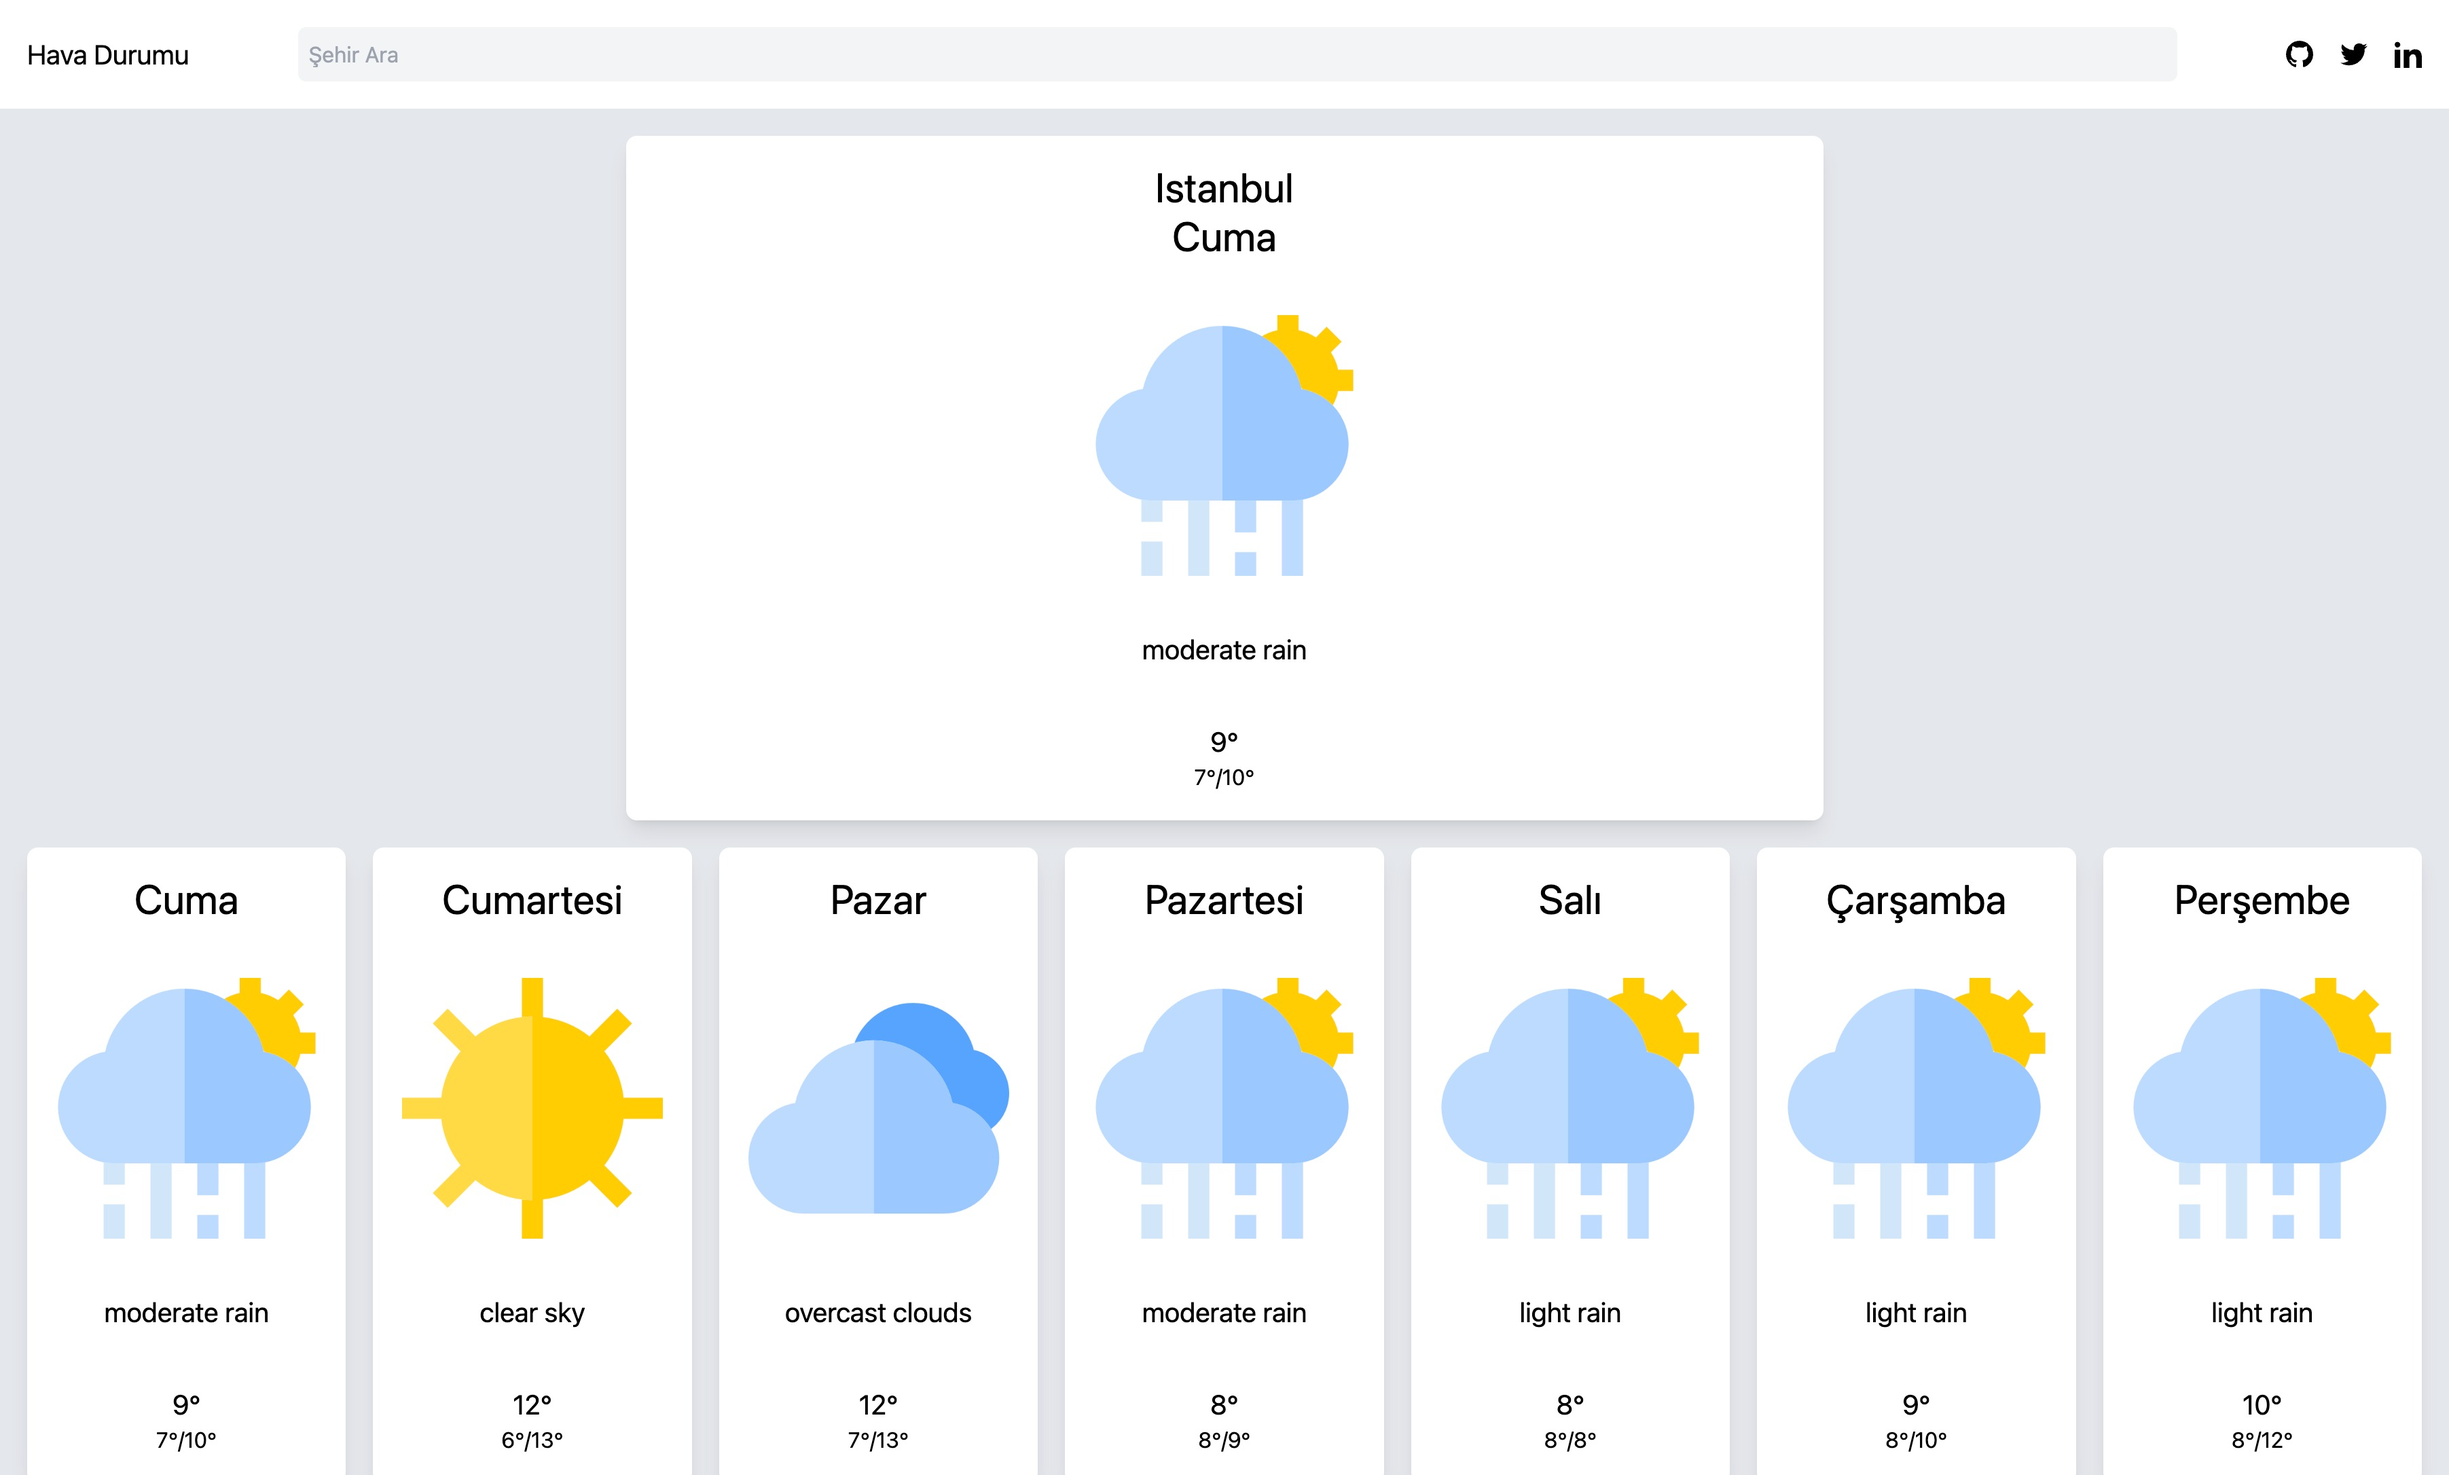
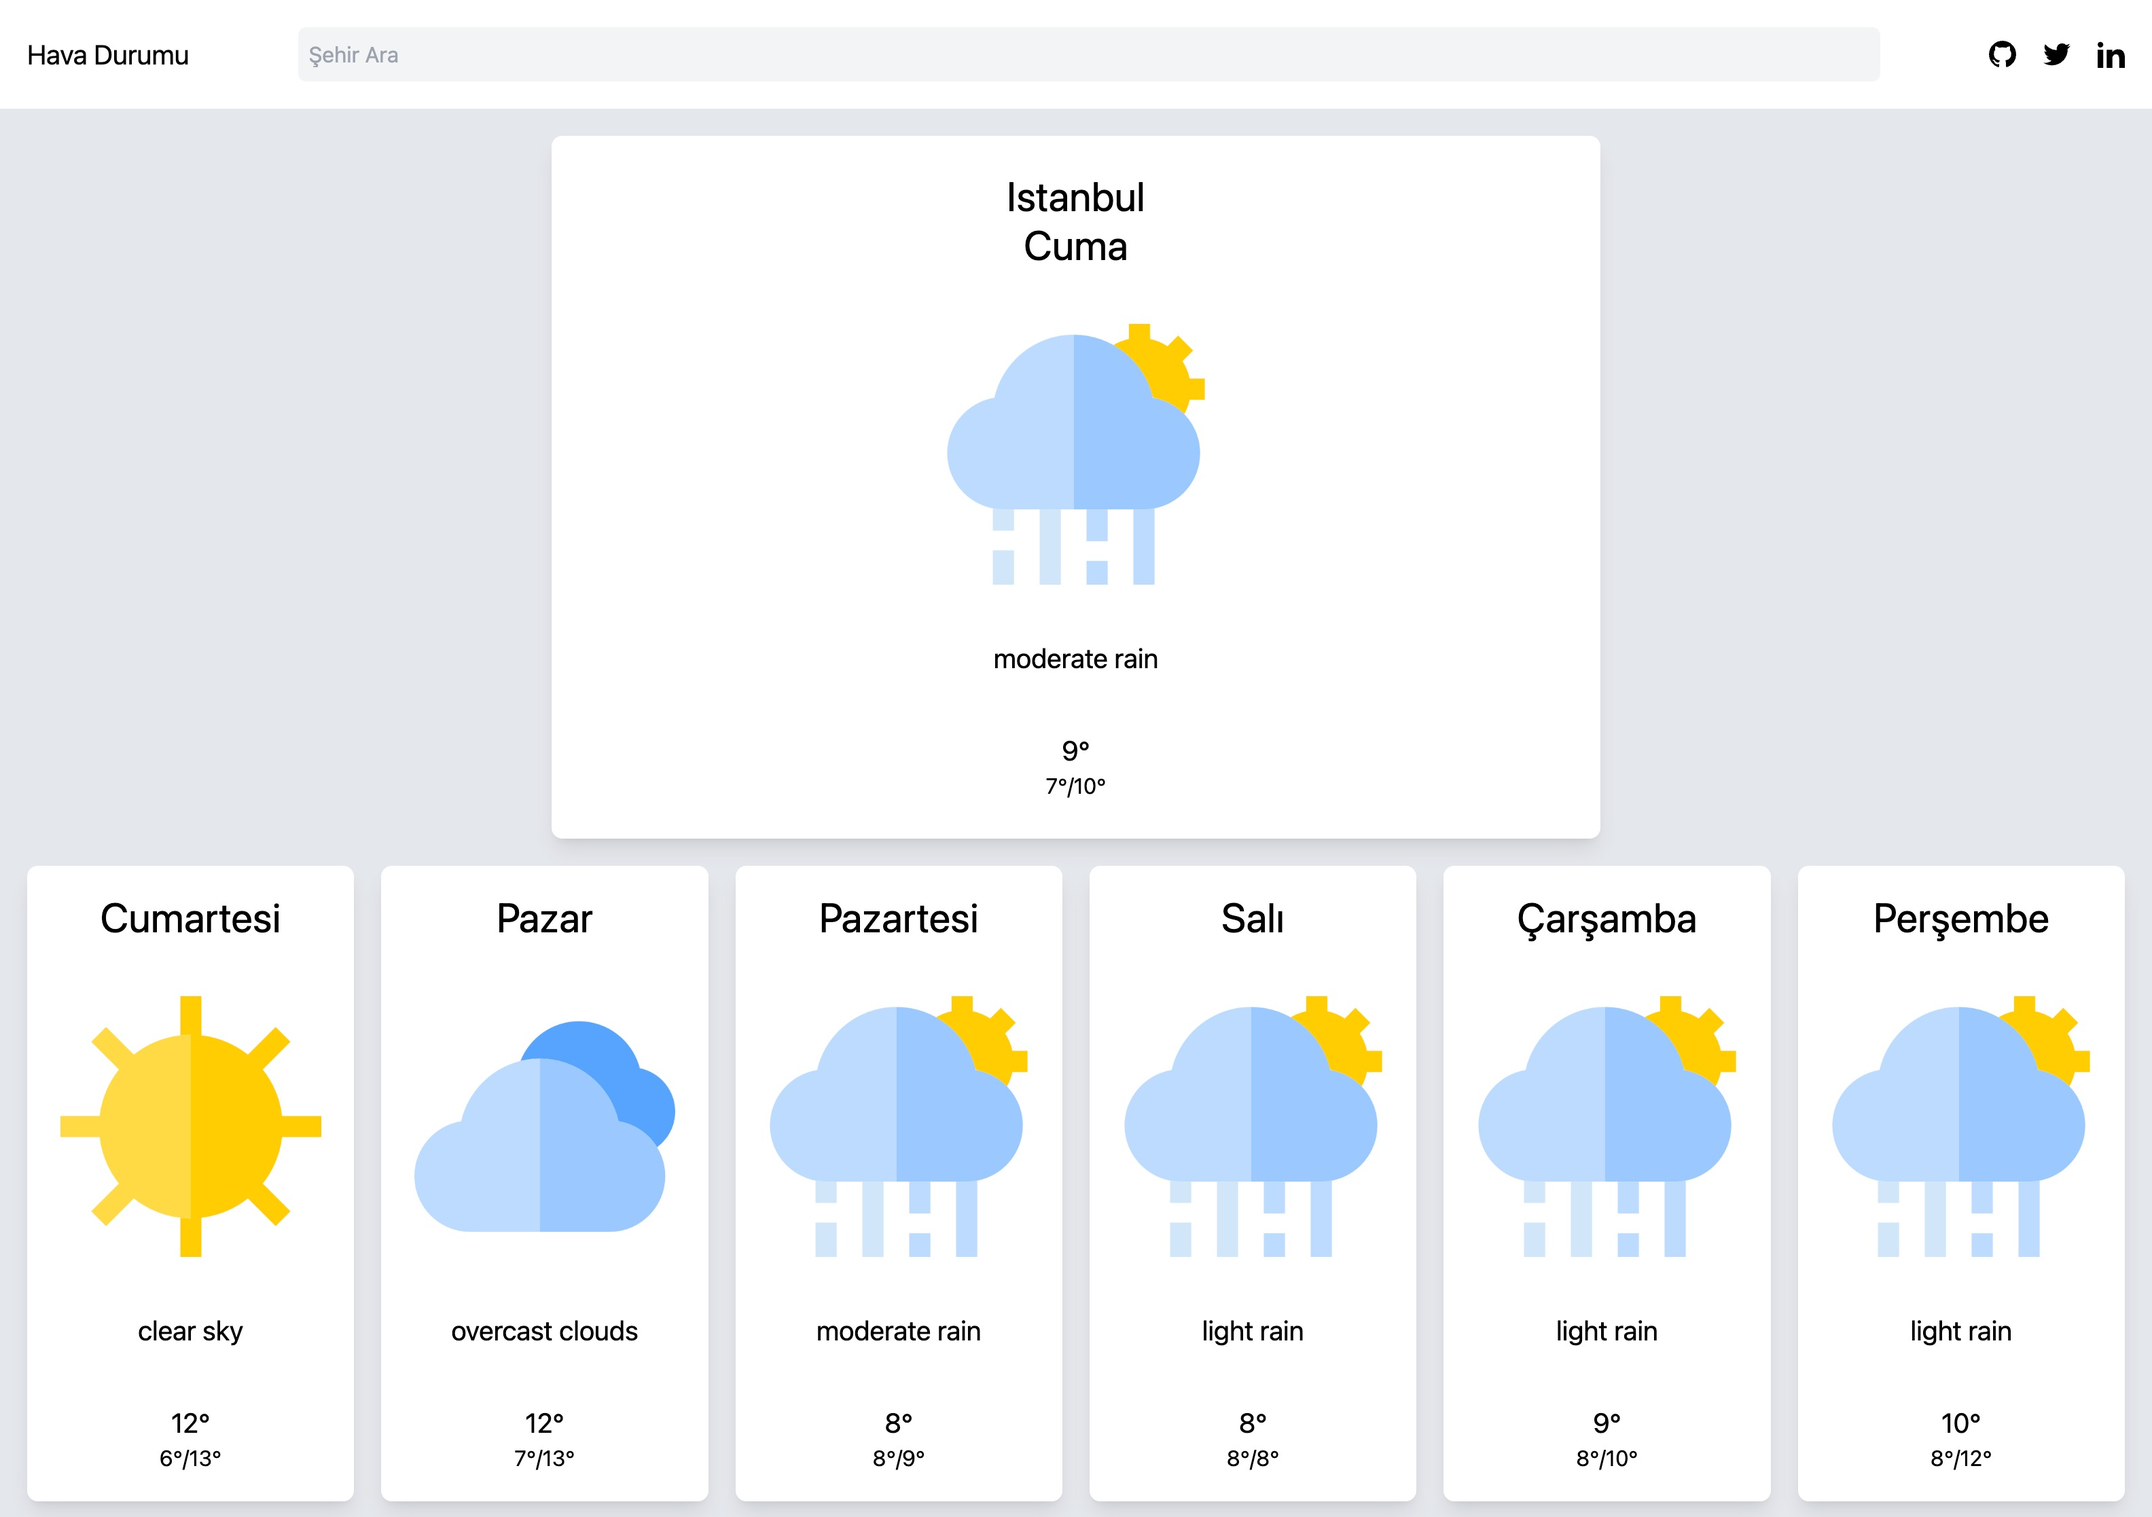
bugfix

diff --git a/src/pages/index.tsx b/src/pages/index.tsx
@@ -59,7 +59,7 @@ export default function Home() {
   }
 
   function renderWeather() {
-    return apiData?.result.map((items, id) =>
+    return apiData?.result.slice(1).map((items, id) =>
       <Weather key={id} {...items} isToday={false} city={apiData.city} />
     )
   }
